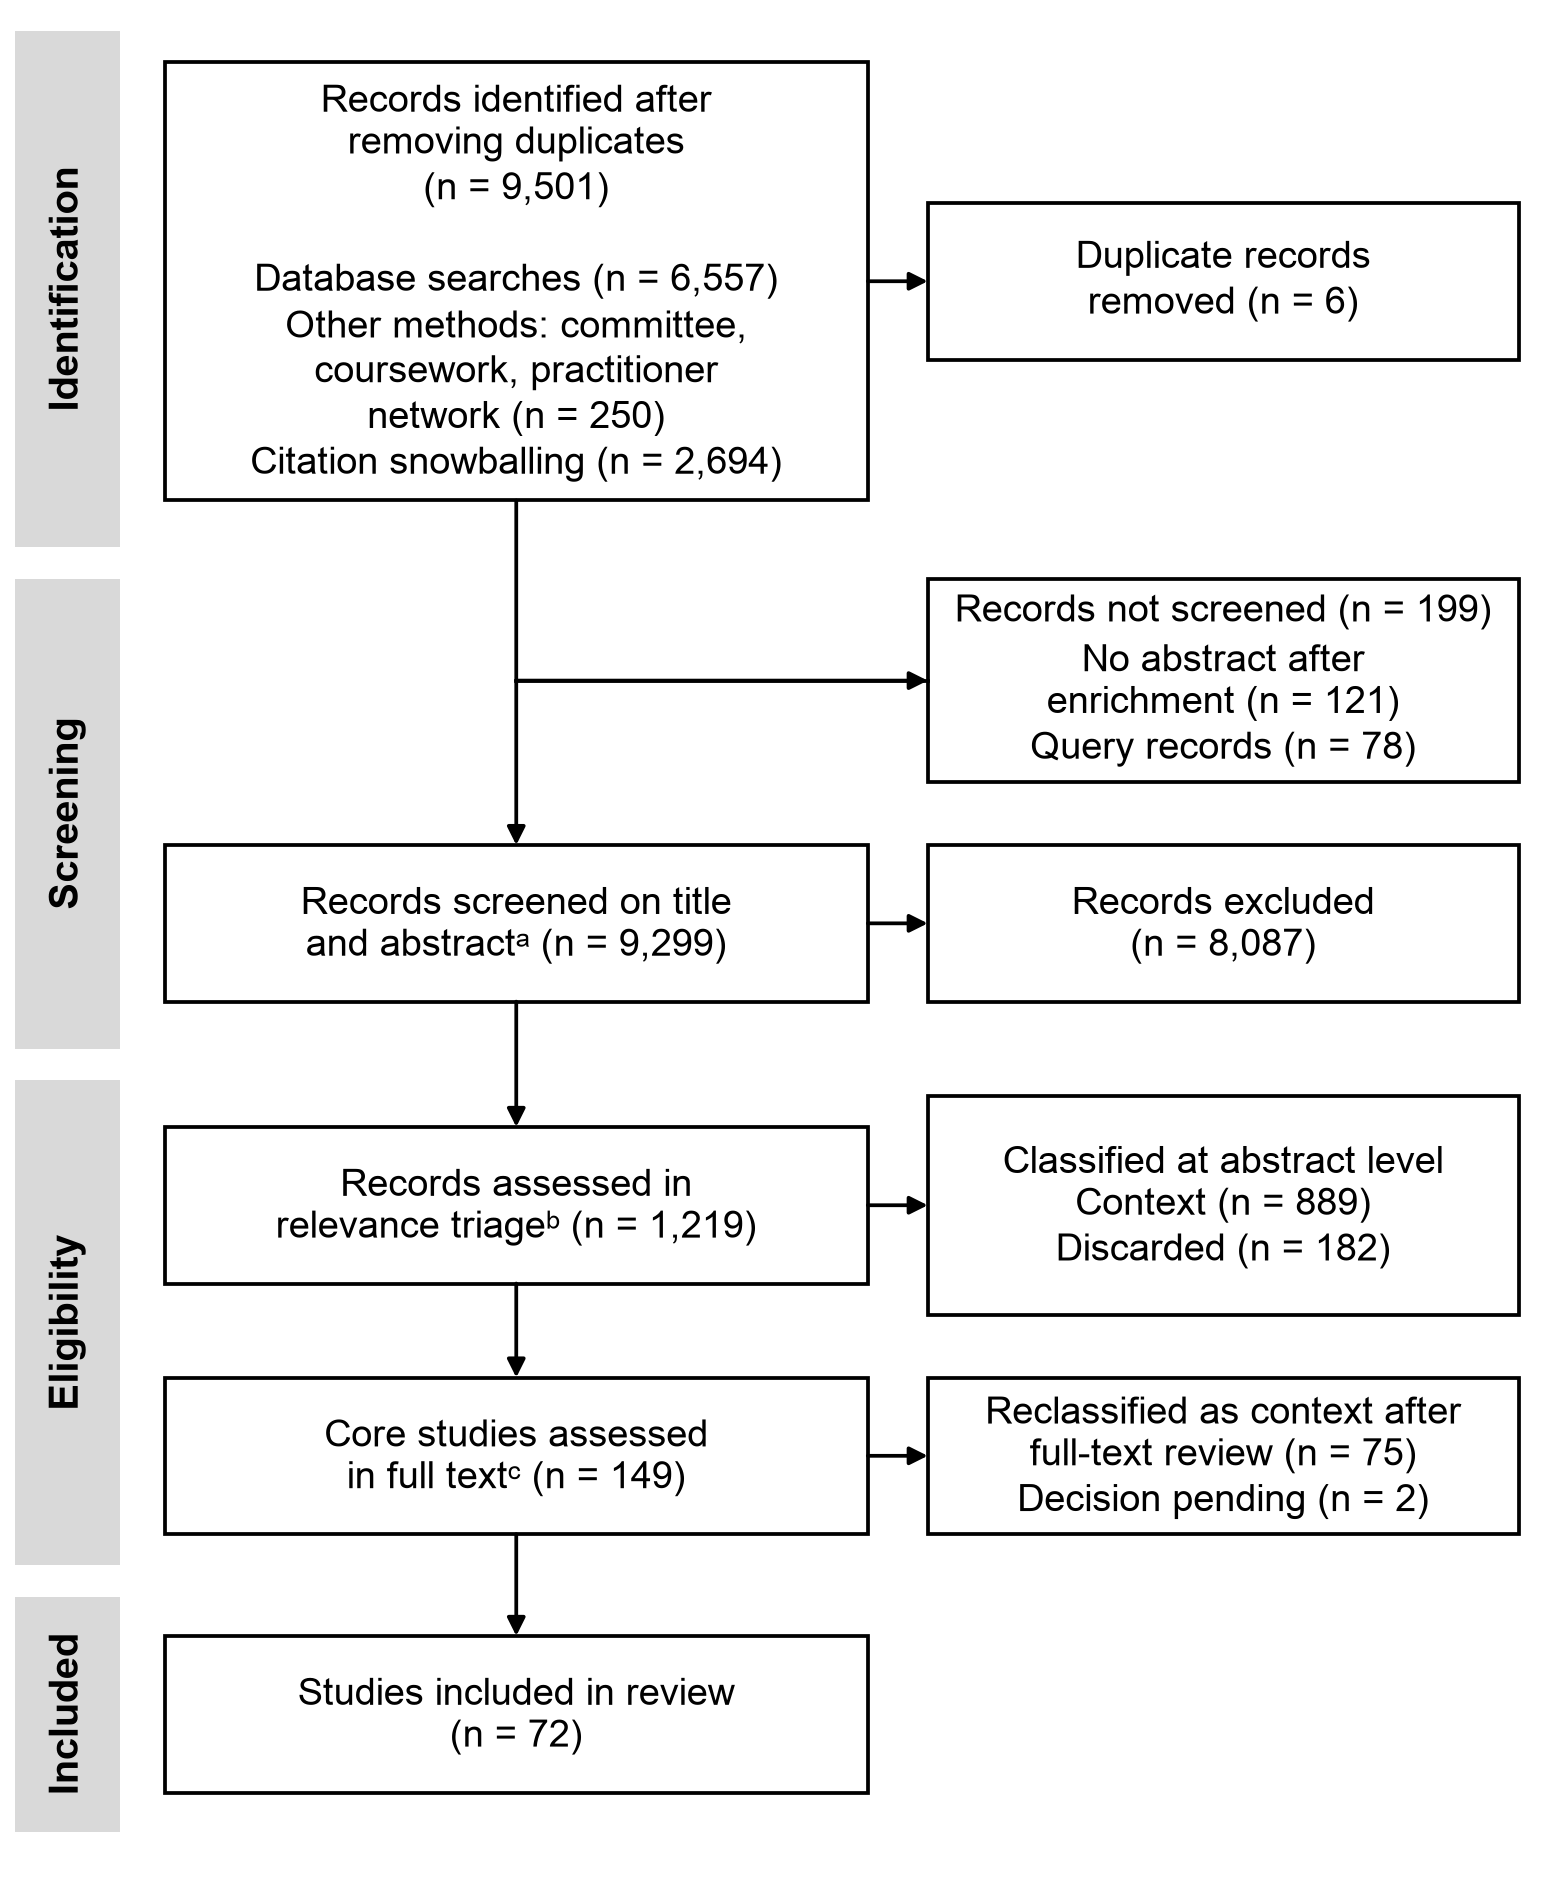
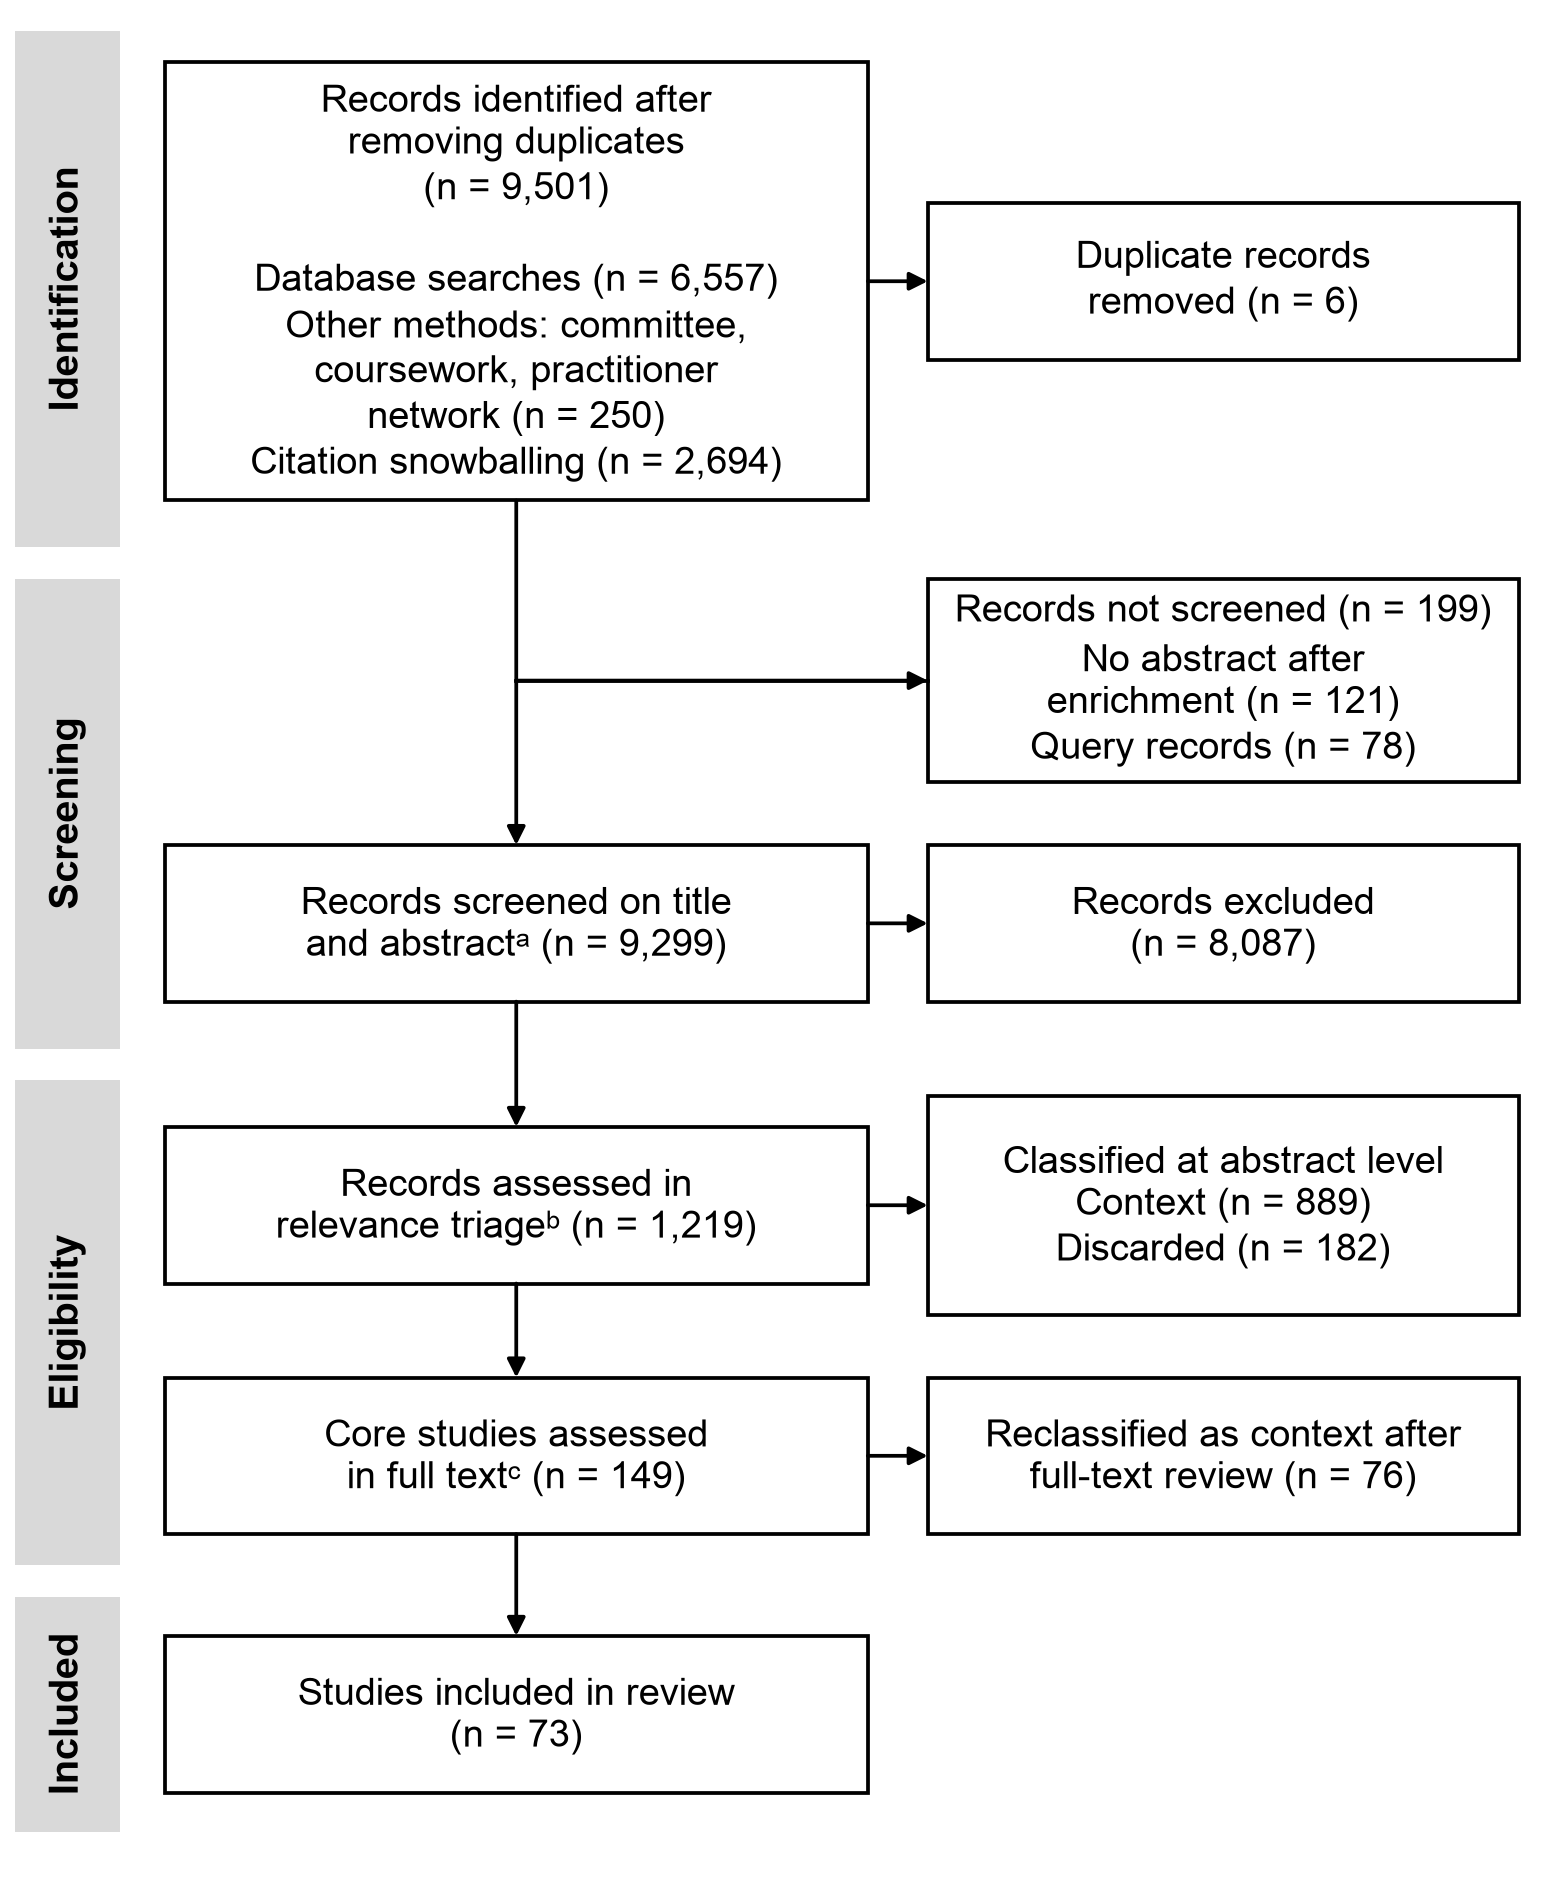
docs(methodology): final-round full-text calls — Dai kept (Phase 6 = 73), Grewal demoted; snapshot v170005
- Phase 6 check accepts an arbiter full-text keep with theme tagging deferred (followup:tagging).
- PRISMA_Funnel_v170005.json replaces v169999 as snapshot of record; Figure A1 regenerated.
- Appendix A text updated: 149 assessed in full text, 76 reclassified, 73 included; tag-count note.

Claude-Session: https://claude.ai/code/session_012rf9VY9WDvveqwznLEp8xW

Changed region(s): [[0.623, 0.7412, 0.9656, 0.803]]

diff --git a/slr-tools/prisma_funnel.py b/slr-tools/prisma_funnel.py
@@ -278,7 +278,10 @@ def funnel(lib):
     s4core = {k for k in qstream | sstream if "s4:human:core" in lib.tags(k)}
     core = {k for k, v in fin.items() if "core" in v} | s4core
     demoted = {k for k in core if "demote:context" in lib.tags(k)}
-    reviewed = {k for k in core if any(t.startswith("cal:human:primary:") for t in lib.tags(k))}
+    # Kept after full text = human primary theme, or an arbiter full-text keep with theme tagging
+    # deferred (`followup:tagging`; Dai VFZXPDJX, 2026-11-03). The dissertation uses the tier, not the tags.
+    reviewed = {k for k in core if any(t.startswith("cal:human:primary:") for t in lib.tags(k))
+                or "followup:tagging" in lib.tags(k)}
     p6 = lib.members(PHASE6, deep=False)
     surv = (core - demoted) & reviewed
     R["fulltext"] = {
@@ -288,6 +291,7 @@ def funnel(lib):
         "not_demoted": len(core - demoted),
         "not_demoted_with_human_primary": len(surv),
         "not_demoted_without_human_primary": sorted(core - demoted - reviewed),
+        "kept_pending_theme_tagging": sorted(k for k in core - demoted if "followup:tagging" in lib.tags(k)),
         "demoted_but_have_primary": len(demoted & reviewed),
         "phase6_collection": len(p6),
         "phase6_superseded": sorted(p6 & sup),

diff --git a/Methodology/Appendix_A_Text_v170005.md b/Methodology/Appendix_A_Text_v170005.md
@@ -1,12 +1,13 @@
-# Appendix A and Figure A1 text, recomputed at snapshot v169999 (2026-11-03)
+# Appendix A and Figure A1 text, recomputed at snapshot v170005 (2026-11-03)
 
 Ready-to-paste dissertation text for Chapters 1–2 and Appendix A after the 2026-11-02 re-examination.
-Every number comes from `PRISMA_Funnel_v169999.json` (`slr-tools/prisma_funnel.py`) or the record lists
+Every number comes from `PRISMA_Funnel_v170005.json` (`slr-tools/prisma_funnel.py`) or the record lists
 in `PRISMA_Funnel.md` §5.3b. Figure: `Methodology/figures/PRISMA_Flow_Diagram.{png,svg}`
 (`slr-tools/prisma_diagram.py`).
 
-**Still open, and marked [PENDING] below:** the full-text decisions on Dai (`VFZXPDJX`) and Grewal
-(`ZSTZT2KN`); the arbiter's decisions on review sheet 4a (77 records) and sheet 4b (308 records); the
+**Full-text decisions made 2026-11-03:** Dai (`VFZXPDJX`) kept as core and added to Phase 6, with theme
+tagging deferred (`followup:tagging`); Grewal (`ZSTZT2KN`) demoted to Context. **Still open, and marked
+[PENDING] below:** the arbiter's decisions on review sheet 4a (77 records) and sheet 4b (308 records); the
 full evaluation of the 18 `followup:full-eval` records. Each one can change the counts here. Re-run the
 two scripts once they land.
 
@@ -27,8 +28,8 @@ two scripts once they land.
 | Context at triage | 886 | 889 | `7EK8G7I4`, `7UZ5FCF4`, `IM6DJDEE` |
 | Discard at triage | 180 | 182 | `2HTDGAT4`, `GFJN2SVU` |
 | Full text | 147 | 149 | + Grewal (triage) + Dai (re-examination) |
-| Full-text decisions pending | 0 | 2 | Dai, Grewal |
-| Included | 72 | 72 | unchanged until the two decisions land [PENDING] |
+| Demoted after full text | 75 | 76 | Grewal |
+| Included | 72 | **73** | Dai (kept core; theme tagging deferred) |
 | Figure note ᵇ "two advancing records were not triaged" | 2 | 0 | both now triaged |
 | Table A1: advanced but not triaged / context at triage | 1 / 15 | 0 / 16 | Jiang `7UZ5FCF4` now triaged (Context) |
 
@@ -38,7 +39,7 @@ Box counts (top to bottom): identified 9,501 (databases 6,557; other methods 250
 snowballing 2,694); duplicates removed 6; not screened 199 (no abstract after enrichment 121; query
 records 78); screened 9,299; excluded 8,087; assessed in relevance triage 1,219; classified at abstract
 level as context 889 and discarded 182; core studies assessed in full text 149; reclassified as context
-after full-text review 75, decision pending 2; included 72.
+after full-text review 76; included 73.
 
 > **Decision for the arbiter: duplicates box.** The 9,501 count is post-dedupe, and most duplicates were
 > removed by client merges that delete the losing record. The pre-dedupe total cannot be recovered
@@ -55,8 +56,7 @@ after full-text review 75, decision pending 2; included 72.
 > screened in the snowball stream or under a merged duplicate record.
 > ᵇ A total of 1,212 records advanced from title and abstract screening (964 query, 248 snowball);
 > seven additional records reached triage through the snowball stream or a merged duplicate.
-> ᶜ Includes one study classified as core in the November 2026 re-examination. Full-text decisions on
-> two studies were pending at the time of writing. [PENDING: replace the last sentence once decided.]
+> ᶜ Includes one study classified as core in the November 2026 re-examination.
 
 ## 3. Appendix A, Screening process (replaces the four numbered stages)
 
@@ -88,9 +88,8 @@ after full-text review 75, decision pending 2; included 72.
 >    reviewed. In total, 148 studies were classified as core.
 >
 > 4. Full-text review. A total of 149 core studies were read in full, including one classified as
->    core in the November 2026 re-examination. Of the 147 with completed decisions, 75 (51.0%) were
->    reclassified as context; none moved the other way. Seventy-two studies were retained in the final
->    corpus. [PENDING: Dai and Grewal decisions; update 147, 75, 51.0%, and 72.]
+>    core in the November 2026 re-examination. Of these, 76 (51.0%) were reclassified as context; none
+>    moved the other way. Seventy-three studies were retained in the final corpus.
 
 ᵃ *Disclosure to keep or drop:* the project documents record no reason for setting the floor at 55
 rather than lower; for the snowball stream, 55 was chosen over 50 so that the two streams would match.
@@ -148,21 +147,25 @@ adjacent empirical evidence 32, author's prior work 1 (67).
 `followup:full-eval`). Once they are evaluated, recompute this paragraph. Any that reach the final
 corpus leave Table A1.]
 
-Table A1 note: unchanged except the corpus count, *"…not among the 72 studies in the systematic
-corpus."* [PENDING: 72.]
+Table A1 note: change the corpus count to 73, *"…not among the 73 studies in the systematic
+corpus."* Table A1 itself is unchanged: neither Dai nor Grewal is in `10 - Used`.
 
 ## 8. Every place the final corpus count "72" appears (`Thurlow_Chapter_1+2.docx`, 2026-11-02 22:40)
 
 | # | Location | Text |
 |---|---|---|
-| 1 | Ch. 1, methodology preview paragraph | "Of these, 147 studies were assessed in full text, and 72 were retained in the final corpus." (147 → 149 once decided) |
+| 1 | Ch. 1, methodology preview paragraph | "Of these, 147 studies were assessed in full text, and 72 were retained in the final corpus." → "149 … and 73 were retained" |
 | 2 | Ch. 2, introduction | "…yielding a final corpus of 72 studies." |
 | 3 | Ch. 2, Screening | "…leaving 72 studies in the final corpus." (also 147, 75) |
-| 4 | Ch. 2, Analysis | "843 tags across the 72 studies" (843 changes if either pending study is kept) |
+| 4 | Ch. 2, Analysis | "843 tags across the 72 studies" → see the tags note below |
 | 5 | App. A, Screening process step 4 | "72 studies were retained in the final corpus." |
 | 6 | App. A, Table A1 note | "…not among the 72 studies in the systematic corpus." |
 | 7 | App. A, Thematic coding, last paragraph | "The final coding set for the 72 included studies comprised 843 tags…" |
 
 Linked figures to update in the same edit: 9,502 → 9,501 (Ch. 1, Ch. 2 Screening, App. A step 1);
 9,300 → 9,299; 1,208 → 1,212; "147 were classified as core" → 148; 147 / 75 / 51.0% in full-text
-sentences [PENDING].
+sentences → 149 / 76 / 51.0%; every "72" → 73.
+
+**Tags note (rows 4 and 7).** Dai has no theme tags yet, so "843 tags across the 73 studies" would be
+false. Either drop the tag count, or write *"…843 tags across 72 of the 73 included studies; one study
+added in the November 2026 re-examination was not coded."*

diff --git a/Methodology/PRISMA_Funnel.md b/Methodology/PRISMA_Funnel.md
@@ -9,12 +9,12 @@ snapshot figures in earlier docs (9,518 / 983 / 970 / 149 / 148 / 147-with-76-de
 for how each reconciles. To refresh: `python3 slr-tools/prisma_funnel.py --dump lib.json` (RO key)
 then `--snapshot lib.json`; Phase-6 must still equal the computed predicate (§4) or something moved.
 
-> **Recomputed 2026-11-03 against snapshot v169999** (`PRISMA_Funnel_v169999.json`), after the
-> 2026-11-02 re-examination (§5.3b). **v169999 is now the snapshot of record.** The tables below still
-> show v169153. Every figure that changed, and why, is in `Appendix_A_Text_v169999.md` §1. Headline at
-> v169999: 9,501 identified · 199 not screened · 9,299 screened → 1,212 advanced · 1,219 triaged →
-> 148 Core (+1 via re-examination) · 889 Context · 182 Discard · 149 full text → 75 demoted, 2 pending ·
-> **72 included**. Figure A1 is drawn from the JSON by `slr-tools/prisma_diagram.py`
+> **Recomputed 2026-11-03 against snapshot v170005** (`PRISMA_Funnel_v170005.json`), after the
+> 2026-11-02 re-examination (§5.3b). **v170005 is now the snapshot of record.** The tables below still
+> show v169153. Every figure that changed, and why, is in `Appendix_A_Text_v170005.md` §1. Headline at
+> v170005: 9,501 identified · 199 not screened · 9,299 screened → 1,212 advanced · 1,219 triaged →
+> 148 Core (+1 via re-examination) · 889 Context · 182 Discard · 149 full text → 76 demoted ·
+> **73 included** (Dai kept, theme tagging deferred; Grewal demoted). Figure A1 is drawn from the JSON by `slr-tools/prisma_diagram.py`
 > (`Methodology/figures/`).
 
 PRISMA mapping follows the alignment note in `SLR_Paper_Outline_v0_2026-08.md` §3.1: internal
@@ -239,7 +239,10 @@ missed step and revises nothing, and it is why triage moved 1,213 → 1,219. Rec
 filed decision were placed only in the re-examination collection; their Phase-3 placement is unchanged,
 as in §5.3a. Dai enters full text through `01-Core` of that collection; Grewal through Final/01-Core.
 
-**Not yet decided:** full-text calls on Dai and Grewal; 77 more records with the F6 signature (human
+**Full text (2026-11-03):** Dai kept as core and added to Phase 6 (theme tagging deferred,
+`followup:tagging`; the funnel's Phase 6 check accepts that tag); Grewal demoted to Context.
+
+**Not yet decided:** 77 more records with the F6 signature (human
 Pass-1 keep → machine Pass-2 discard, no human Pass-2 decision); the 45–54 triage band (308 records);
 18 dissertation-cited records that left the review at a model-only step (`followup:full-eval`).
 
